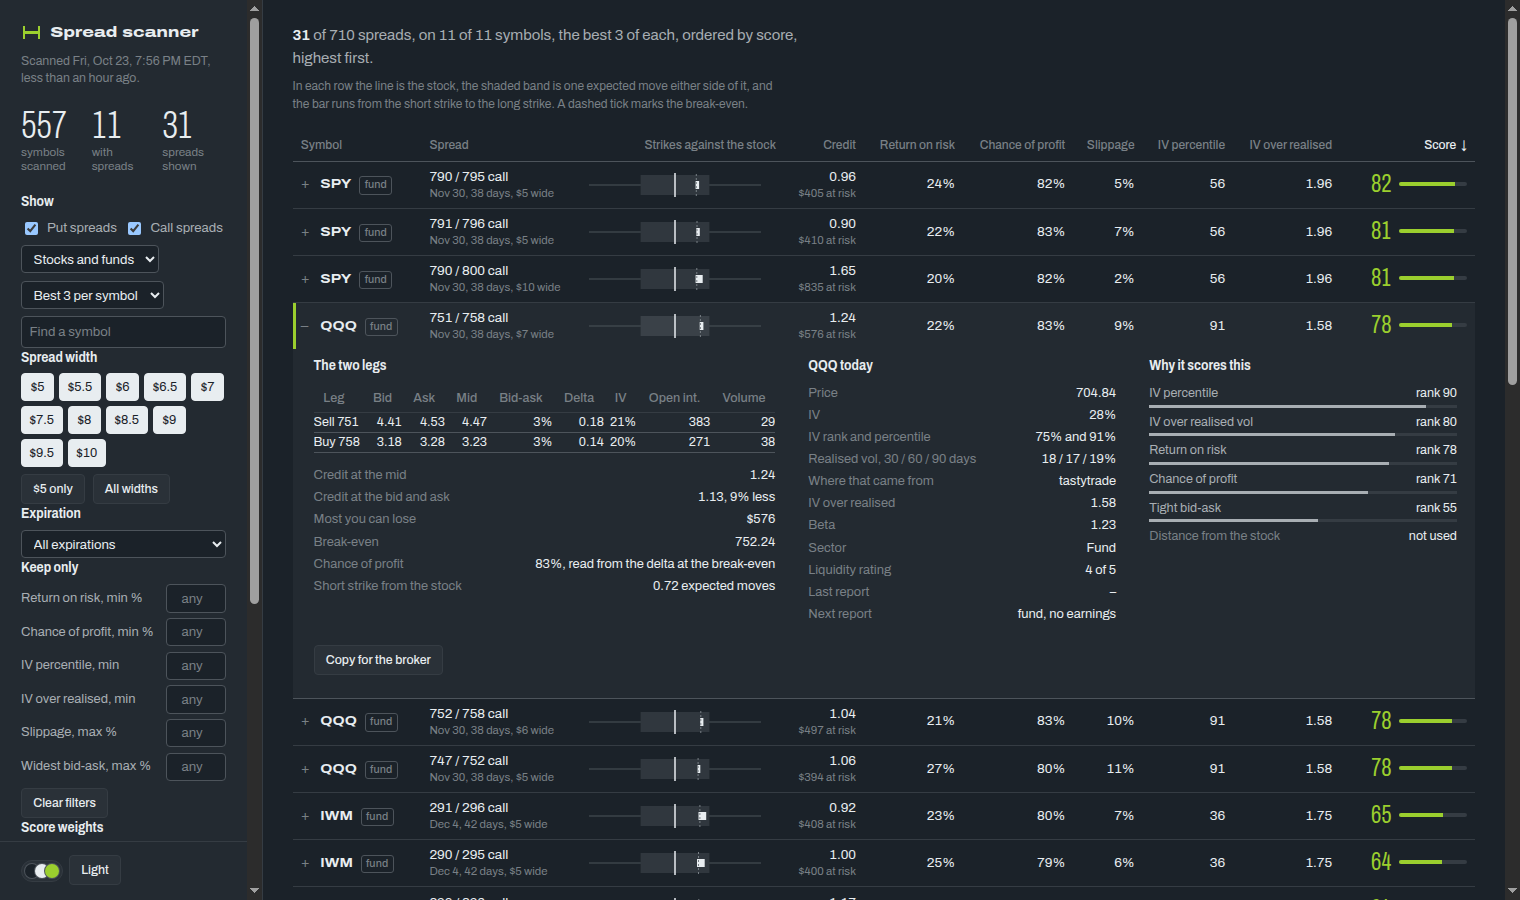
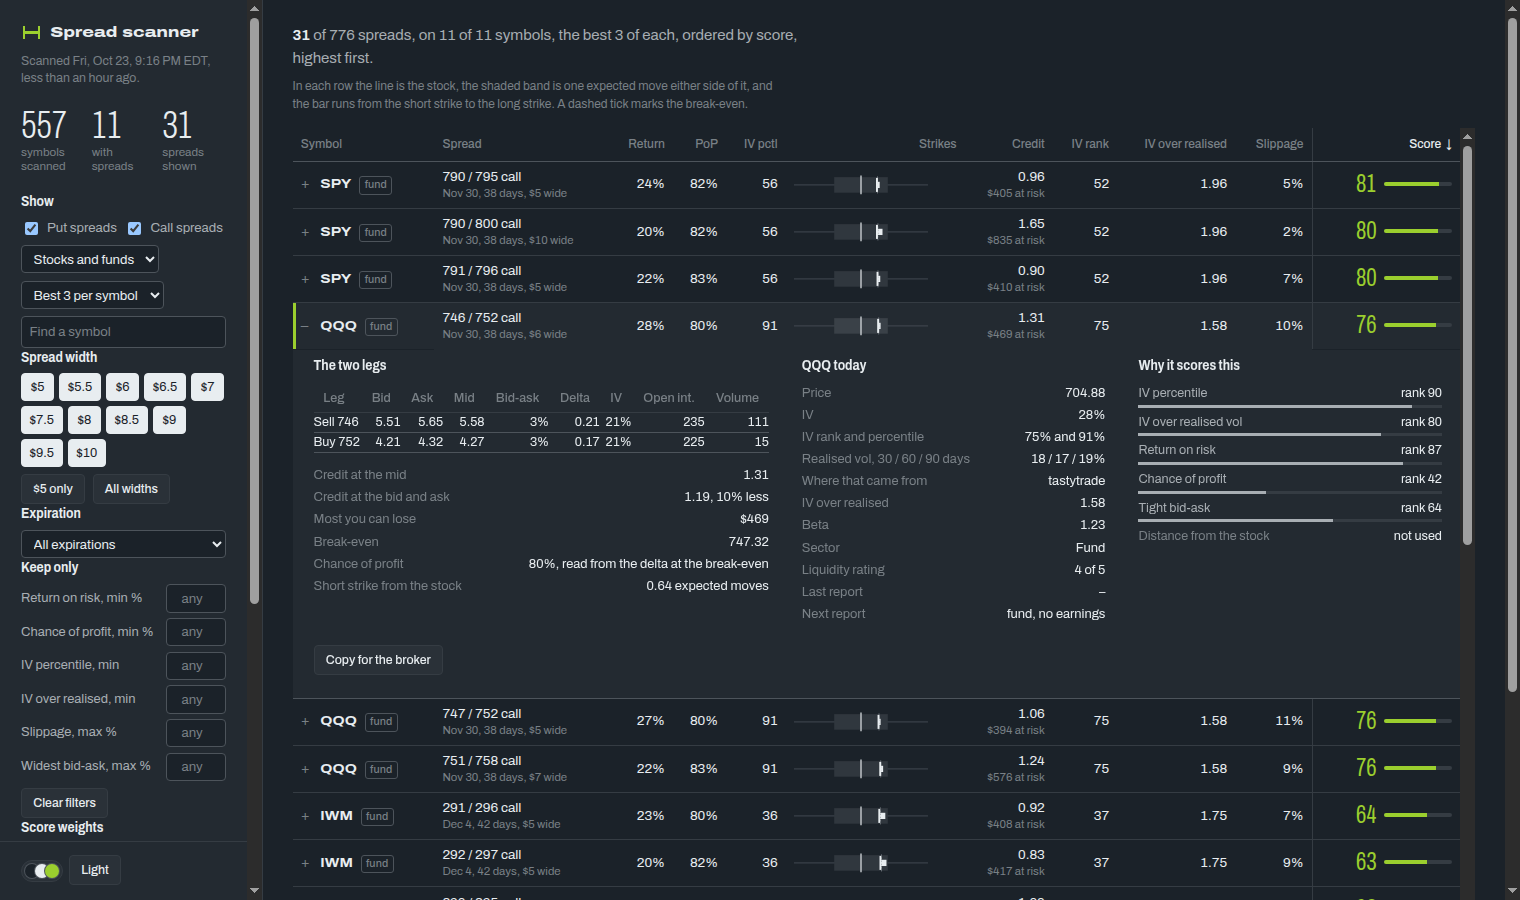
Show chance of profit, IV percentile and IV rank in the table, and scroll sideways instead of hiding columns
Columns used to drop out by the table's width, which hid the chance of profit and
the IV percentile on most windows. Every column is now always there: a table wider
than its room scrolls sideways, with the symbol and the score pinned either side
and the opened row's panel kept in view. Column order is priority order, so return,
chance of profit and IV percentile come before the wide strike ruler. IV rank is
new, kept in the saved components and sortable like the rest.

diff --git a/web/index.html b/web/index.html
@@ -138,7 +138,10 @@
   .summary { margin: 0 0 1rem; max-width: 62ch; color: var(--sub); }
   .summary strong { color: var(--ink); font-weight: 650; }
   .key { margin: -0.5rem 0 1rem; max-width: 70ch; }
-  .table-wrap { overflow-x: clip; }
+  /* Every column is always there; a table wider than its room scrolls sideways. The symbol and the score
+     stay pinned either side, so a row is still readable and still shows what it scores. On a wide window the
+     wrapper is also the vertical scroller (see the media query below), so the header can stay put. */
+  .table-wrap { overflow-x: auto; }
   table { width: 100%; border-collapse: collapse; font-size: 0.9rem; }
   thead th {
     position: sticky; top: 0; z-index: 2; background: var(--ground);
@@ -154,6 +157,14 @@
   thead th[aria-sort="descending"] button::after { content: "↓"; }
   tbody tr.item td { padding: 0.5rem 0.55rem; border-bottom: 1px solid var(--line); text-align: right; vertical-align: middle; white-space: nowrap; }
   tbody tr.item td.left { text-align: left; }
+  /* child combinators: the opened row's legs table has its own thead, which must not be pinned */
+  .table-wrap > table > thead > tr > th:first-child, .table-wrap > table > tbody > tr.item > td:first-child { position: sticky; left: 0; background: var(--row-bg, var(--ground)); }
+  .table-wrap > table > thead > tr > th:last-child, .table-wrap > table > tbody > tr.item > td:last-child { position: sticky; right: 0; background: var(--row-bg, var(--ground)); }
+  .table-wrap > table > tbody > tr.item > td:first-child, .table-wrap > table > tbody > tr.item > td:last-child { z-index: 1; }
+  .table-wrap > table > thead > tr > th:last-child, .table-wrap > table > tbody > tr.item > td:last-child { box-shadow: inset 1px 0 0 var(--line); }
+  .table-wrap > table > thead > tr > th:first-child, .table-wrap > table > thead > tr > th:last-child { z-index: 3; }
+  /* the pinned cells take their row's colour from this, since they need an opaque background of their own */
+  tbody tr.item:hover, tbody tr.item.open { --row-bg: var(--surface); }
   tbody tr.item:hover td { background: var(--surface); }
   tbody tr.item.open td { background: var(--surface); border-bottom-color: transparent; }
   tbody tr.item.open td:first-child { box-shadow: inset 3px 0 0 var(--signal); }
@@ -231,21 +242,22 @@
   .pal-reset { font-size: 0.75rem; }
 
   /* ---- the list adapts to the room it has, not to the window ------------
-     The rail is a fixed width, so a window width says little about the table's. The wrapper is a
-     size container and the columns drop out by its width: all ten need about 1140px, seven need
-     about 880px, five need about 700px, and below that the phone layout takes over. */
+     The rail is a fixed width, so a window width says little about the table's. The wrapper is a size
+     container, and what changes with its width is how compactly the rows are set, never which columns show. */
   .table-wrap { container: list / inline-size; }
-  .detail-grid { width: 100%; contain: inline-size; }
+  .detail-grid { box-sizing: border-box; width: calc(100cqw - var(--scrollbar, 0px)); position: sticky; left: 0; contain: inline-size; }
   .short { display: none; }
   @container list (max-width: 1150px) {
-    .col-opt { display: none; }
     .detail-grid { grid-template-columns: minmax(0, 1fr) minmax(0, 1fr); }
     .detail-grid > :first-child { grid-column: 1 / -1; }
   }
-  @container list (max-width: 890px) {
-    .col-mid { display: none; }
+  @container list (max-width: 1250px) {
+    .ruler { width: 134px; height: auto; }
+    .long { display: none; }
+    .short { display: inline; }
   }
-  @container list (max-width: 700px) {
+  @container list (max-width: 1000px) { .ruler { width: 118px; height: auto; } }
+  @container list (max-width: 740px) {
     .tag { display: none; }
     .ruler { width: 72px; height: auto; }
     table { font-size: 0.86rem; }
@@ -257,16 +269,17 @@
     td.left .two small { white-space: normal; }
     .days { display: none; }
     .strikes { white-space: nowrap; }
-    .long { display: none; }
-    .short { display: inline; }
     .sym { gap: 0.3rem; }
     .sym::before { width: 0.6rem; }
     .detail-grid { grid-template-columns: minmax(0, 1fr); padding-left: 0.7rem; padding-right: 0.7rem; }
     .legs .leg-opt { display: none; }
     .legs th, .legs td { padding: 0.3rem 0.35rem; }
   }
-  @container list (max-width: 400px) { .ruler { width: 58px; } }
-  @container list (max-width: 340px) { .col-ruler { display: none; } }
+  @container list (max-width: 400px) { .ruler { width: 48px; } }
+
+  /* With the rail beside it the table has the window's height to itself: it scrolls inside its own box, so the
+     header row stays put while the list moves and the page behind it is not what slides. */
+  @media (min-width: 861px) { .table-wrap { overflow-y: auto; max-height: calc(100vh - 1.6rem); } }
 
   /* ---- narrow windows: the rail folds into a top bar ----------------------- */
   @media (max-width: 860px) {
@@ -280,7 +293,6 @@
     .controls[open] > summary::after { content: "–"; }
     .controls[open] { gap: 1rem; }
     main { padding: 1.2rem 0.8rem 6rem; }
-    .table-wrap { overflow-x: auto; }
     thead th { position: static; }
     .pal { left: 1rem; }
     /* the Light/Dark button joins the title row; the swatch stays at the lower left, as in equity-watch */

diff --git a/web/app.js b/web/app.js
@@ -196,13 +196,16 @@
   const COLUMNS = [
     { key: "symbol", label: "Symbol", left: true },
     { key: "expiration", label: "Spread", left: true },
-    { key: "distance", label: "Strikes against the stock", short: "Strikes", ruler: true, hint: "Sorts by how many expected moves the short strike is from the stock" },
-    { key: "credit", label: "Credit", mid: true },
+    // Order is priority: a table wider than its room scrolls sideways, so what decides a trade comes first
+    // and the strike ruler, the widest cell, follows the numbers.
     { key: "returnOnRisk", label: "Return on risk", short: "Return" },
-    { key: "pop", label: "Chance of profit", mid: true },
-    { key: "slippage", label: "Slippage", opt: true },
-    { key: "ivPercentile", label: "IV percentile", opt: true },
-    { key: "ivOverHv", label: "IV over realised", opt: true },
+    { key: "pop", label: "Chance of profit", short: "PoP" },
+    { key: "ivPercentile", label: "IV percentile", short: "IV pctl" },
+    { key: "distance", label: "Strikes against the stock", short: "Strikes", ruler: true, hint: "Sorts by how many expected moves the short strike is from the stock" },
+    { key: "credit", label: "Credit" },
+    { key: "ivRank", label: "IV rank" },
+    { key: "ivOverHv", label: "IV over realised" },
+    { key: "slippage", label: "Slippage" },
     { key: "score", label: "Score" },
   ];
 
@@ -218,7 +221,7 @@
           }
           update();
         });
-        return el("th", { class: `${col.left ? "left" : ""} ${col.opt ? "col-opt" : ""} ${col.mid ? "col-mid" : ""} ${col.ruler ? "col-ruler" : ""}`.trim(), scope: "col", "data-key": col.key, title: col.hint }, button);
+        return el("th", { class: `${col.left ? "left" : ""} ${col.ruler ? "col-ruler" : ""}`.trim(), scope: "col", "data-key": col.key, title: col.hint }, button);
       }),
     );
   }
@@ -269,13 +272,14 @@
       { class: `item${open ? " open" : ""}` },
       el("td", { class: "left" }, toggle),
       el("td", { class: "left" }, el("span", { class: "two" }, el("span", { class: "strikes", text: `${strike(s.short.strike)} / ${strike(s.long.strike)} ${s.side}` }), el("small", {}, `${M.shortDate(s.expiration)}, `, el("span", { class: "days", text: `${s.dte} days, ` }), `${width(s.width)} wide`))),
-      el("td", { class: "col-ruler" }, rulerSvg(c, info)),
-      el("td", { class: "col-mid" }, el("span", { class: "two" }, s.creditMid.toFixed(2), el("small", { text: `${money(s.maxRisk)} at risk` }))),
       el("td", { text: pct(s.profitPct) }),
-      el("td", { class: "col-mid", text: pct(s.popPct) }),
-      el("td", { class: "col-opt", text: pct(s.slippagePct) }),
-      el("td", { class: "col-opt", text: c.components.ivPercentile === null ? "–" : num(c.components.ivPercentile * 100) }),
-      el("td", { class: "col-opt", text: c.components.ivOverHv === null ? "–" : c.components.ivOverHv.toFixed(2) }),
+      el("td", { text: pct(s.popPct) }),
+      el("td", { text: c.components.ivPercentile === null ? "–" : num(c.components.ivPercentile * 100) }),
+      el("td", { class: "col-ruler" }, rulerSvg(c, info)),
+      el("td", {}, el("span", { class: "two" }, s.creditMid.toFixed(2), el("small", { text: `${money(s.maxRisk)} at risk` }))),
+      el("td", { text: c.components.ivRank === null || c.components.ivRank === undefined ? "–" : num(c.components.ivRank * 100) }),
+      el("td", { text: c.components.ivOverHv === null ? "–" : c.components.ivOverHv.toFixed(2) }),
+      el("td", { text: pct(s.slippagePct) }),
       el("td", {}, el("span", { class: "score" }, el("b", { text: String(Math.round(c.score * 100)) }), el("i", { style: `--w:${Math.round(c.score * 100)}%` }))),
     );
     if (!open) return [tr];
@@ -359,10 +363,22 @@
 
   const DIRECTION_WORDS = { symbol: { asc: "A to Z", desc: "Z to A" }, expiration: { asc: "soonest first", desc: "latest first" } };
 
+  /**
+   * The opened row's panel is as wide as the visible table, not the whole scrollable one, so it stays in
+   * view while the table is scrolled sideways. The CSS asks for the container's width, which counts the
+   * vertical scrollbar, so the scrollbar's width is measured here and taken off.
+   */
+  function measureScrollbar() {
+    const wrap = $("table-wrap");
+    wrap.style.setProperty("--scrollbar", `${wrap.offsetWidth - wrap.clientWidth}px`);
+  }
+  new ResizeObserver(measureScrollbar).observe($("table-wrap"));
+
   function render() {
     const list = M.visible(scan, state.weights, state.filters, state.sortKey, state.sortDir);
     const body = $("body");
     body.replaceChildren(...list.flatMap(row));
+    measureScrollbar();
     for (const th of $("head").children) {
       if (th.dataset.key === state.sortKey) th.setAttribute("aria-sort", state.sortDir === "asc" ? "ascending" : "descending");
       else th.removeAttribute("aria-sort");

diff --git a/test/web.test.ts b/test/web.test.ts
@@ -72,6 +72,11 @@ test('sorting: best first by default, the other way on request, missing values l
   const sorted = M.sortCandidates(gappy, 'ivOverHv', 'desc') as RankedCandidate[];
   assert.equal(sorted.at(-1)!.components.ivOverHv, null);
   assert.equal((M.sortCandidates(gappy, 'ivOverHv', 'asc') as RankedCandidate[]).at(-1)!.components.ivOverHv, null, 'also last when ascending');
+  // IV rank: runs saved before it was kept have none, and sort last rather than breaking the sort
+  const ranked = s.candidates.map((c, i) => (i === 0 ? c : { ...c, components: { ...c.components, ivRank: 0.1 * i } }));
+  const byRank = M.sortCandidates(ranked, 'ivRank', 'desc') as RankedCandidate[];
+  assert.deepEqual(plain(byRank.slice(0, 3).map((c) => c.components.ivRank)), [0.30000000000000004, 0.2, 0.1]);
+  assert.equal(byRank.at(-1)!.components.ivRank, undefined);
   assert.equal(M.defaultDirection('score'), 'desc');
   assert.equal(M.defaultDirection('slippage'), 'asc');
 });

diff --git a/test/rank.test.ts b/test/rank.test.ts
@@ -70,6 +70,8 @@ test('components: IV over realised vol, natural return on risk, worst leg spread
   close(k.distance, 10 / (100 * 0.3 * Math.sqrt(c.spread.dte / 365)), 1e-12);
   assert.equal(components(c, info({ hv30: null, hv60: null, hv90: null })).ivOverHv, null);
   assert.equal(components(c, info({ ivIndex: null })).distance, 0);
+  assert.equal(k.ivRank, 0.5, 'the IV rank travels with the components so the page can show and sort by it');
+  assert.equal(components(c, info({ ivRank: 0.8 })).ivRank, 0.8);
 });
 
 test('ranking: underlying-level figures are ranked across underlyings, so many spreads do not count many times', () => {

diff --git a/src/rank.ts b/src/rank.ts
@@ -48,6 +48,7 @@ export function components(c: Candidate, info: SymbolInfo): Components {
   const blend = blendedVolatility(info);
   const expectedMove = info.ivIndex === null ? null : info.spot * info.ivIndex * Math.sqrt(s.dte / 365);
   return {
+    ivRank: info.ivRank,
     ivPercentile: info.ivPercentile,
     ivOverHv: info.ivIndex !== null && blend !== null ? info.ivIndex / blend : null,
     returnOnRisk: s.creditNatural / (s.width - s.creditNatural),

diff --git a/src/types.ts b/src/types.ts
@@ -156,6 +156,8 @@ export interface RankWeights {
 
 /** The raw figures behind a score. Null where the data was not available. */
 export interface Components {
+  /** Where IV sits in its year's range, 0 to 1. Shown beside the percentile, not scored. Absent in runs saved before it was kept. */
+  ivRank?: number | null;
   ivPercentile: number | null;
   ivOverHv: number | null;
   returnOnRisk: number;

diff --git a/web/model.js b/web/model.js
@@ -45,6 +45,7 @@
     pop: [(c) => c.spread.popPct, "desc"],
     slippage: [(c) => c.spread.slippagePct, "asc"],
     legSpread: [(c) => worstLegSpread(c), "asc"],
+    ivRank: [(c) => c.components.ivRank, "desc"],
     ivPercentile: [(c) => c.components.ivPercentile, "desc"],
     ivOverHv: [(c) => c.components.ivOverHv, "desc"],
     distance: [(c) => c.components.distance, "desc"],

diff --git a/CLAUDE.md b/CLAUDE.md
@@ -42,7 +42,7 @@ This started as part of a Schwab scanner and the Schwab login is the reason it i
 Plain files, no bundler and no framework, so it opens from a `file://` URL. `model.js` has no DOM in it and is a classic script (not a module: Chrome blocks module scripts on `file://`); `test/web.test.ts` runs it in `node:vm` and checks its scoring against `src/rank.ts` over random inputs. Change one copy of the scoring and that test fails until you change the other.
 
 - **The scan is embedded in index.html** by `renderReport` (`src/report.ts`). It escapes `<` and the two Unicode line separators: a `</script>` inside a symbol's data would otherwise end the data tag. Do not replace that with a plain `JSON.stringify`.
-- **Columns drop out by the table's own width, with container queries on `.table-wrap`, not by the window's width.** The rail is a fixed 17.5rem, so a window width says little about the room the table has: a media query tuned at 1440px clipped the score column at 1360px. The thresholds (1150px, 890px, 700px) are the measured widths of the columns; re-measure if you add one.
+- **Every column is always shown; a table wider than its room scrolls sideways** (the user's call, 2026-10-23: columns that dropped out by width hid the chance of profit and the IV percentile on most windows). The symbol and the score are pinned either side with `position: sticky`, so a row stays readable and keeps its score. Column order in `COLUMNS` is therefore priority order: what decides a trade (return, chance of profit, IV percentile) comes before the wide strike ruler. The pinning rules use child combinators from `.table-wrap` because an opened row holds a second table (the legs), whose headers must not be pinned. Pinned cells need an opaque background of their own, so the row's hover and open colour reaches them through `--row-bg`. On a wide window the wrapper is also the vertical scroller (`max-height`), so the header row can stay put; below 860px the page scrolls instead. `.table-wrap` is still a size container, now only to compact the rows (`.days`, the tag, font size) and to size the opened row's panel (`100cqw`, sticky) so it stays on screen while the table is scrolled.
 - **The opened row must never widen the table.** `.detail-grid` has `contain: inline-size`, `width: 100%` and `minmax(0, 1fr)` columns. Without them the legs table pushed the score column off a phone.
 - **The palette control is equity-watch's, copied; the presets are this app's own.** `web/palette.js` is that file with a different storage key and its own six presets (the user asked for new ones here, and for the originals to stay on equity-watch only). `index.html`'s `data-palette` must equal the first preset (`test/web.test.ts` checks it), or the picker opens on a palette it does not list. The three-colour system (`--p-ground`, `--p-ink`, `--p-signal`, light mode swaps ground and ink) is why every colour in `index.html` is a `color-mix` of those three; add a colour that way, never as a hex.
 - **The rail footer is sticky and holds the swatch's place** (the swatch is `position: fixed` at the lower left). Without it the swatch floats over the last filter.

diff --git a/README.md b/README.md
@@ -85,7 +85,7 @@ One self-contained page: open `report/index.html` straight from disk, no server.
 - **Weight sliders** re-rank the list as you move them. Open a row to see its legs, the underlying's figures and how each component ranked.
 - **A palette picker and a Light/Dark button**, the same control as equity-watch's.
 
-The page works down to a 320px phone: columns drop out by the room the table has, and the opened row carries what the table drops.
+The page works down to a 320px phone. Every column is always there: when the table is wider than its room it scrolls sideways, with the symbol and the score pinned either side, and the opened row stays in view while it does.
 
 ### Ranking
 
